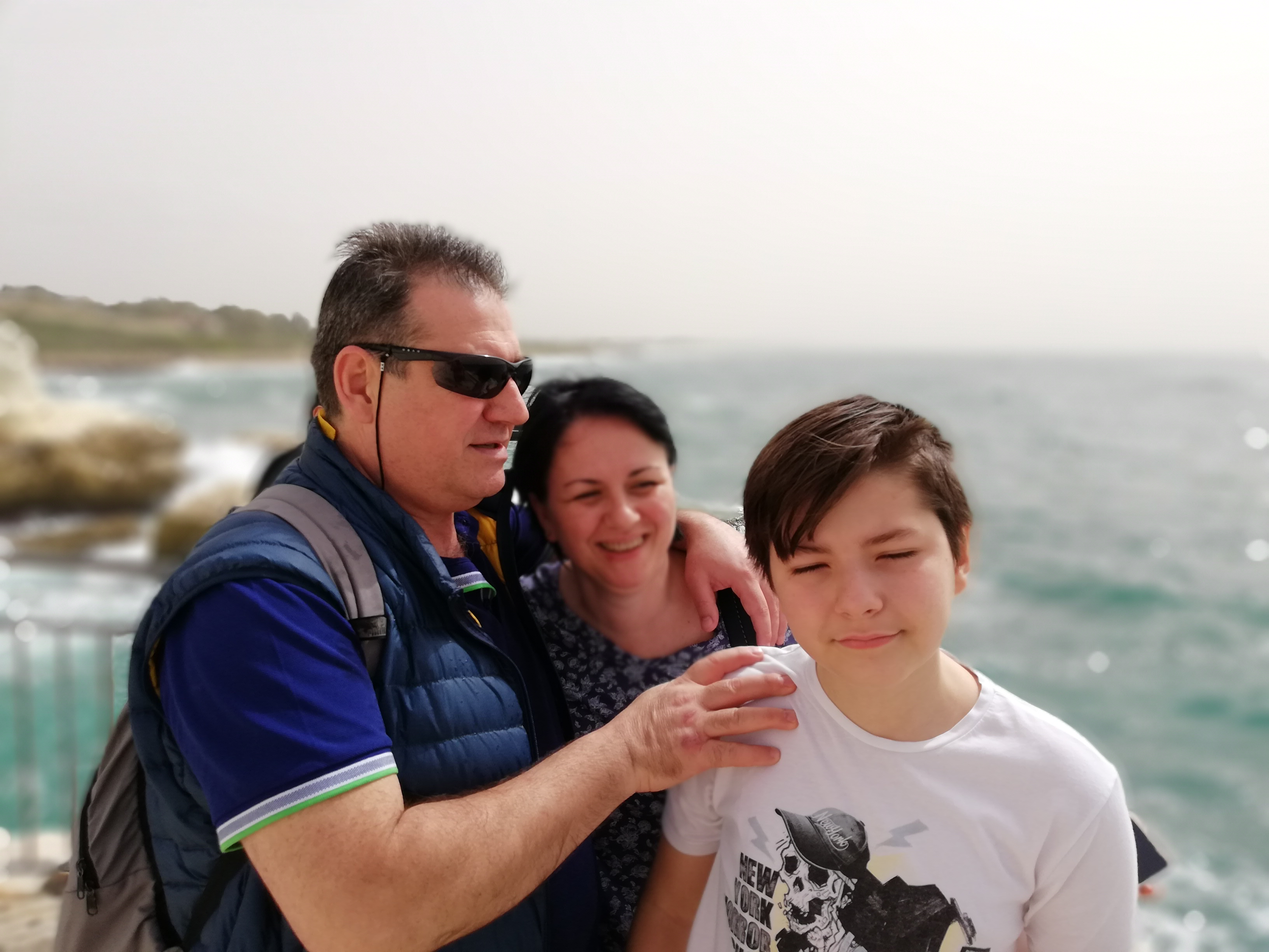
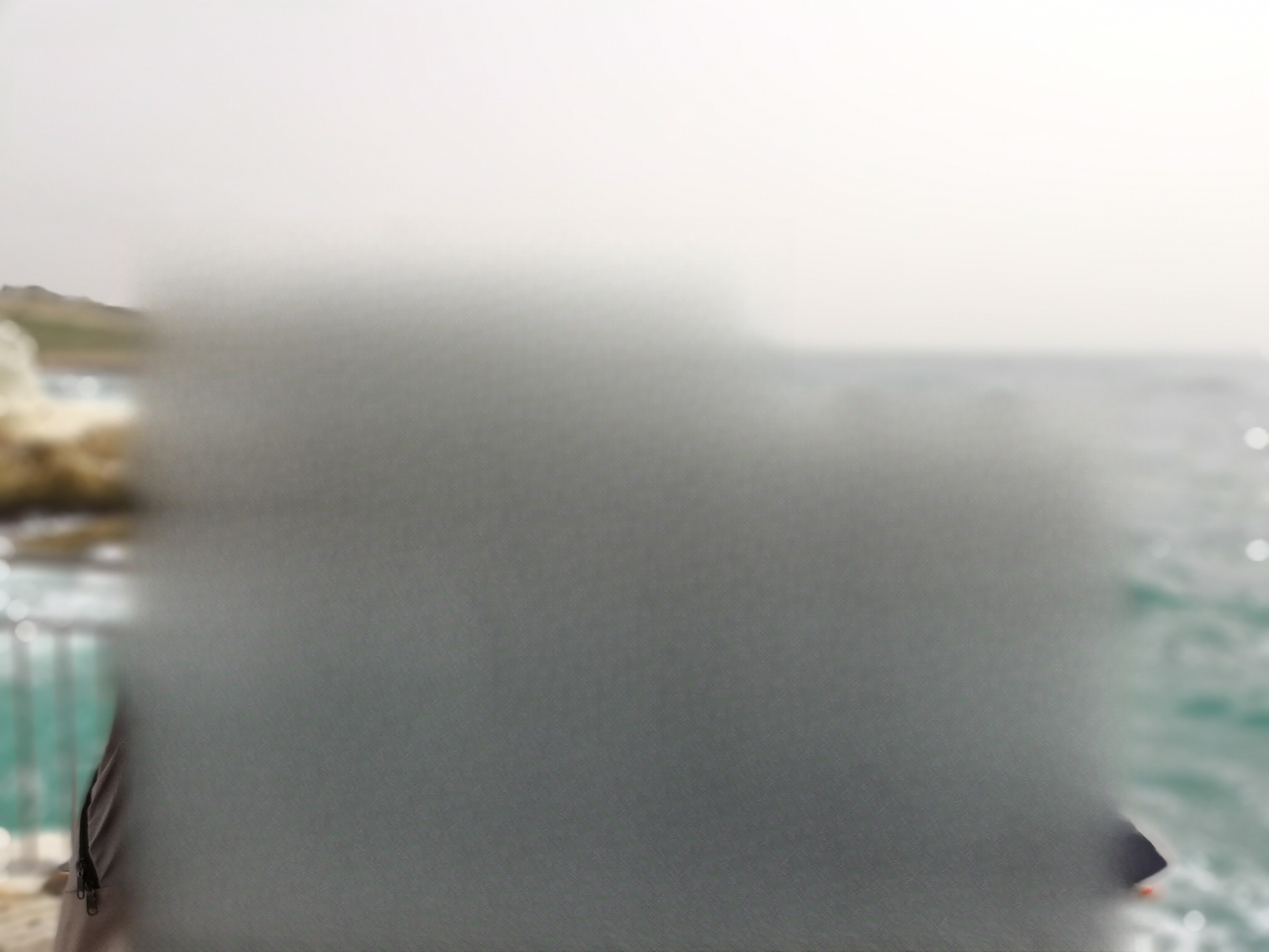
Apply face-detection inpaint sweep across 12 portfolio photos
Runs the v2 face-gated pipeline (MediaPipe + YOLO11n + LaMa) against the 12
prescan-flagged photos. 11 inpainted in place, 1 flagged for manual review
because the face exceeds the 0.15-area threshold (recognisable family member
in close-up — likely belongs in /personal, not /travel).

Per-trip breakdown:
- 2018-03-israel:           8 inpainted, 1 flagged
- 2019-07-belgium:          1 inpainted
- 2020-02-denmark:          1 inpainted (Pexels Horsens)
- 2026-03-balkans-roadtrip: 1 inpainted

Total inpaint runtime: 2.85 min on warm cache. All 11 outputs match input
dimensions bit-exactly (verified via PIL image.size). The Israel section
becomes safe to publish: family members are out of every photo except the
one flagged case which is documented in docs/inpaint-flagged-photos.md.

Pipeline change: added an LAMA_MAX_SIDE=2048 cap with
resize-then-composite-back so 4K Israel photos don't OOM the LaMa CPU
allocator (3456x4608 input previously needed 16 GB CPU RAM in a single FFC
conv). Unmasked pixels stay pixel-identical to the source; only the masked
regions are upscaled from 2048-px LaMa output. Also crops the LaMa output
back to source dims to undo the pad_out_to_modulo=8 padding that was
otherwise leaking 3 px into the Horsens output (2000x1125 -> 2000x1128).

Review surface:
- docs/inpaint-sweep-results.md  -- side-by-side before/after thumbnails
                                    Eduard ticks Accept/Reject per row.
[…]

diff --git a/scripts/inpaint-people.py b/scripts/inpaint-people.py
@@ -82,6 +82,12 @@ os.environ.setdefault("XDG_CACHE_HOME", str(_CACHE_DIR))
 
 PERSON_CLASS_ID = 0  # COCO id for "person" -- shared by YOLO11/YOLOv8 weights.
 FACE_FALLBACK_EXPANSION = 0.8  # 80 % bbox inflation when face has no parent person.
+# LaMa CPU memory caps: a 3456x4608 photo trips an OOM around 16 GB tensor
+# allocations on 32 GB hosts. Cap the long edge fed to LaMa to this size, then
+# composite the inpainted result back onto the full-resolution source so output
+# dimensions are still preserved bit-exactly. 2048 px long edge keeps peak RAM
+# under ~4 GB while remaining high-quality.
+LAMA_MAX_SIDE = 2048
 
 
 def _require_runtime_deps():
@@ -462,7 +468,34 @@ def _process_one(
         record["decision"] = "inpainted"
         if not dry_run:
             mask = _build_mask(src_size, selected, mask_dilate)
-            inpainted = lama(image, mask)
+            # LaMa is memory-hungry: tensor allocations scale ~quadratically with
+            # pixel count, and a 3456x4608 photo would need ~16GB of CPU RAM in
+            # one of the FFC convolution layers (observed crash on 32GB host
+            # while other processes consumed half the RAM). Cap the LaMa input
+            # to LAMA_MAX_SIDE on the long edge; upscale the inpainted output
+            # back to src and composite ONLY the masked regions onto the
+            # original. Unmasked pixels stay pixel-identical to the source.
+            sw, sh = src_size
+            long_side = max(sw, sh)
+            if long_side > LAMA_MAX_SIDE:
+                scale = LAMA_MAX_SIDE / float(long_side)
+                rw = max(1, int(round(sw * scale)))
+                rh = max(1, int(round(sh * scale)))
+                small_image = image.resize((rw, rh), Image.LANCZOS)
+                small_mask = mask.resize((rw, rh), Image.NEAREST)
+                small_inpainted = lama(small_image, small_mask)
+                # Upscale to src dims, then composite onto the source using
+                # the full-resolution mask so unmasked pixels are unchanged.
+                upscaled = small_inpainted.convert("RGB").resize(src_size, Image.LANCZOS)
+                inpainted = Image.composite(upscaled, image, mask)
+            else:
+                inpainted = lama(image, mask)
+            # SimpleLama pads the input to a multiple of 8 before inference
+            # (`pad_out_to_modulo=8` in prepare_img_and_mask) and returns the
+            # padded output without cropping. Crop back to src dimensions
+            # to preserve the input shape exactly.
+            if inpainted.size != src_size:
+                inpainted = inpainted.crop((0, 0, src_size[0], src_size[1]))
             # SimpleLama returns a PIL.Image (same dimensions as input). Save as
             # JPEG to match input extension when possible; high quality keeps
             # second-generation compression damage minimal.

diff --git a/docs/inpaint-sweep-results.md b/docs/inpaint-sweep-results.md
@@ -1,0 +1,67 @@
+# Inpaint Sweep — Review
+
+People-removal review for the inpaint sweep across `public/photos/trips/`.
+Tick `[x]` for **Accept**, leave both blank or tick **Reject**, then hand back to the agent.
+
+## Summary
+
+- Total inpainted pairs: **11**
+- Trips touched: **4**
+- Orphaned staging files (no matching original): **1**
+- Before tree: `public/photos/trips`
+- After tree: `scripts/.inpaint-staging`
+- Thumbnail cache: `public/photos/_inpaint-thumbs` (gitignored)
+
+### Per-trip counts
+
+| Trip slug | Photos in this sweep |
+|---|---:|
+| `2018-03-israel` | 8 |
+| `2019-07-belgium` | 1 |
+| `2020-02-denmark` | 1 |
+| `2026-03-balkans-roadtrip` | 1 |
+
+### Decision tally (auto-counted from this doc)
+
+After ticking, run `grep -c '\[x\] Accept' <doc>` and `grep -c '\[x\] Reject' <doc>`
+to confirm the totals match what you expect before the apply step.
+
+## Orphaned staging files
+
+These files exist under the after-tree but have no matching original in the
+before-tree. Likely leftovers from a previous sweep. Investigate before merging.
+
+- `flagged/IMG_20180324_113721.jpg`
+
+## Pairs by trip
+
+### 2018-03-israel
+
+| Filename | Before | After | Sign-off |
+|---|---|---|---|
+| `IMG_20180323_113715.jpg` | ![before](../public/photos/_inpaint-thumbs/2018-03-israel__IMG_20180323_113715.before.jpg) | ![after](../public/photos/_inpaint-thumbs/2018-03-israel__IMG_20180323_113715.after.jpg) | `[ ]` Accept<br>`[ ]` Reject |
+| `IMG_20180323_113718.jpg` | ![before](../public/photos/_inpaint-thumbs/2018-03-israel__IMG_20180323_113718.before.jpg) | ![after](../public/photos/_inpaint-thumbs/2018-03-israel__IMG_20180323_113718.after.jpg) | `[ ]` Accept<br>`[ ]` Reject |
+| `IMG_20180323_114017.jpg` | ![before](../public/photos/_inpaint-thumbs/2018-03-israel__IMG_20180323_114017.before.jpg) | ![after](../public/photos/_inpaint-thumbs/2018-03-israel__IMG_20180323_114017.after.jpg) | `[ ]` Accept<br>`[ ]` Reject |
+| `IMG_20180323_115533.jpg` | ![before](../public/photos/_inpaint-thumbs/2018-03-israel__IMG_20180323_115533.before.jpg) | ![after](../public/photos/_inpaint-thumbs/2018-03-israel__IMG_20180323_115533.after.jpg) | `[ ]` Accept<br>`[ ]` Reject |
+| `IMG_20180324_121638.jpg` | ![before](../public/photos/_inpaint-thumbs/2018-03-israel__IMG_20180324_121638.before.jpg) | ![after](../public/photos/_inpaint-thumbs/2018-03-israel__IMG_20180324_121638.after.jpg) | `[ ]` Accept<br>`[ ]` Reject |
+| `IMG_20180324_130102.jpg` | ![before](../public/photos/_inpaint-thumbs/2018-03-israel__IMG_20180324_130102.before.jpg) | ![after](../public/photos/_inpaint-thumbs/2018-03-israel__IMG_20180324_130102.after.jpg) | `[ ]` Accept<br>`[ ]` Reject |
+| `IMG_20180324_130414.jpg` | ![before](../public/photos/_inpaint-thumbs/2018-03-israel__IMG_20180324_130414.before.jpg) | ![after](../public/photos/_inpaint-thumbs/2018-03-israel__IMG_20180324_130414.after.jpg) | `[ ]` Accept<br>`[ ]` Reject |
+| `IMG_20180325_135940.jpg` | ![before](../public/photos/_inpaint-thumbs/2018-03-israel__IMG_20180325_135940.before.jpg) | ![after](../public/photos/_inpaint-thumbs/2018-03-israel__IMG_20180325_135940.after.jpg) | `[ ]` Accept<br>`[ ]` Reject |
+
+### 2019-07-belgium
+
+| Filename | Before | After | Sign-off |
+|---|---|---|---|
+| `IMG_20190731_153659.jpg` | ![before](../public/photos/_inpaint-thumbs/2019-07-belgium__IMG_20190731_153659.before.jpg) | ![after](../public/photos/_inpaint-thumbs/2019-07-belgium__IMG_20190731_153659.after.jpg) | `[ ]` Accept<br>`[ ]` Reject |
+
+### 2020-02-denmark
+
+| Filename | Before | After | Sign-off |
+|---|---|---|---|
+| `pexels-horsens-aerial-architecture-13519043.jpg` | ![before](../public/photos/_inpaint-thumbs/2020-02-denmark__pexels-horsens-aerial-architecture-13519043.before.jpg) | ![after](../public/photos/_inpaint-thumbs/2020-02-denmark__pexels-horsens-aerial-architecture-13519043.after.jpg) | `[ ]` Accept<br>`[ ]` Reject |
+
+### 2026-03-balkans-roadtrip
+
+| Filename | Before | After | Sign-off |
+|---|---|---|---|
+| `IMG20260327115726.jpg` | ![before](../public/photos/_inpaint-thumbs/2026-03-balkans-roadtrip__IMG20260327115726.before.jpg) | ![after](../public/photos/_inpaint-thumbs/2026-03-balkans-roadtrip__IMG20260327115726.after.jpg) | `[ ]` Accept<br>`[ ]` Reject |

diff --git a/docs/inpaint-flagged-photos.md b/docs/inpaint-flagged-photos.md
@@ -1,0 +1,43 @@
+# Inpaint sweep — flagged photos for manual review
+
+Photos where the face occupies more than `--max-face-area` (default 0.15 = 15 %)
+of the frame. The pipeline does NOT inpaint these because removing such a large
+face would butcher the composition. They are flagged for human review and most
+likely belong in `/personal`, not `/travel`.
+
+The pipeline writes the original through to `scripts/.inpaint-staging/flagged/`
+with a `.txt` sidecar. The `--apply` step (PR-acceptance pass) does NOT touch
+these — they stay on the source photo until Eduard decides per-photo what to do.
+
+## Decision options for each flagged photo
+
+1. **Drop from `/travel`.** If the photo is a portrait/selfie of recognisable
+   people, remove the entry from `scripts/photo-catalogue.json` and delete the
+   public copy. The original on `G:\` and the local PC is unchanged.
+2. **Replace with Pexels stock.** If the trip needs the date covered, swap in a
+   stock photo of the same place (see `docs/photo-organization.md` attribution
+   rules). Re-run the catalogue build.
+3. **Keep with manual crop.** If a tourist accidentally walked too close to the
+   camera, crop them out manually in an editor and drop the cropped version
+   over the public copy. Then re-run the prescan to confirm the new file no
+   longer trips the face-area threshold.
+4. **Re-run with a higher threshold.** Only if Eduard is confident the visible
+   face is not recognisable; rerun that one photo with
+   `--max-face-area 0.20 --face-confidence 0.6 --min-face-area 0.005`.
+
+## Flagged in this sweep
+
+### `trips/2018-03-israel/IMG_20180324_113721.jpg`
+
+- **Detected**: 2 faces, 2 persons.
+- **Largest face fraction**: 0.176 (≈ 17.6 % of frame, above the 0.15 threshold).
+- **Source size**: 4160 × 3120.
+- **Reason**: face is the photo subject; LaMa would erase a recognisable family
+  member's portrait and leave a hole in the centre of the composition.
+- **Sidecar**: `scripts/.inpaint-staging/flagged/IMG_20180324_113721.jpg.txt`
+- **Recommendation**: review with Eduard. The Israel trip carries a privacy
+  blocker because family members are visible in many of the photos. This one is
+  by far the closest crop, so most likely option 1 (drop from `/travel`) or
+  option 2 (replace with a Pexels stock of the same site) is the right call.
+  Option 4 is **not recommended** for this photo — the face is large enough that
+  identification is trivial even after a crop.
